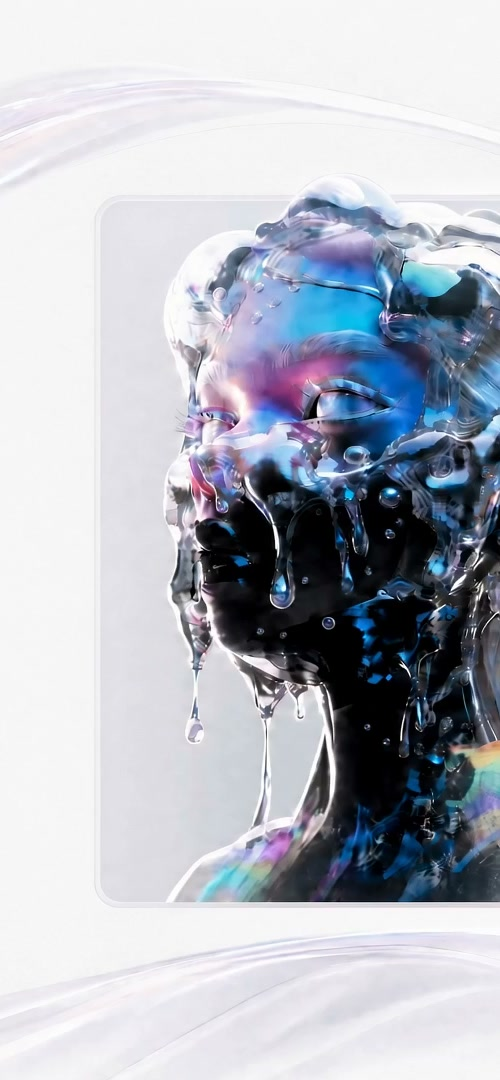
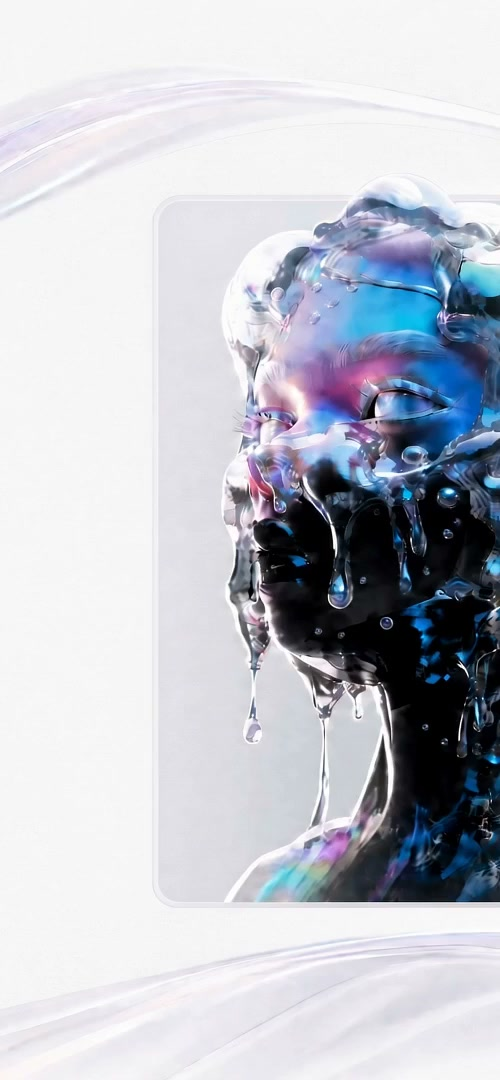
Restore original mobile hero framing

diff --git a/src/components/Hero.tsx b/src/components/Hero.tsx
@@ -243,12 +243,13 @@ export default function Hero() {
           rather than squeezing the desktop canvas down.
           Composition per handoff spec: no overlay of any kind on top of
           the video (no scrim/blur/mask/boxed clip) — the video is full-
-          bleed and object-position is tuned (66% center) so the figure
-          reads clearly in the open middle of the screen. Legibility comes
-          entirely from placement: text lives in the naturally light upper
-          zone right under the header, buttons are pinned to the bottom via
-          margin-top:auto on their wrapper, leaving the whole middle of the
-          screen free for the video. The only readability aid is the same
+          bleed and its portrait crop preserves the source's original 62%
+          framing so the figure reads clearly in the open middle of the
+          screen. Legibility comes entirely from placement: text lives in
+          the naturally light upper zone right under the header, buttons are
+          pinned to the bottom via margin-top:auto on their wrapper, leaving
+          the whole middle of the screen free for the video. The only
+          readability aid is the same
           light text-shadow glow the source itself used — see Hero.css. */}
       <div className="hero-mobile-wrap">
         <div className={`mobile-menu${menuOpen ? ' is-open' : ''}`}>

diff --git a/src/components/Hero.css b/src/components/Hero.css
@@ -62,11 +62,9 @@
 }
 .hero-video.is-active { opacity: 1; }
 .hero-mobile-video { display: none; }
-/* Mobile: full-bleed, no overlay on top of it at all — see the composition
-   comment on `.hero-main-mobile` below for why. 66% keeps the figure
-   framed in the open middle of the screen (the busiest part of the frame
-   sits right of center), clear of both the header/eyebrow above it and
-   the bottom-pinned buttons below it. */
+/* Mobile: full-bleed, no overlay on top of it at all. The portrait asset is
+   cropped directly from the master at the same framing as the original
+   62% object-position, so no additional runtime scaling is required. */
 @media (max-width: 840px) {
   .hero-video { display: none; }
   .hero-mobile-video {

diff --git a/README.md b/README.md
@@ -46,7 +46,7 @@ both re-encoded from the original masters with `ffmpeg`:
 | Asset | Before | After | How |
 |---|---|---|---|
 | `hero-background.mp4` | 8.0 MB (1920×1080, ~6.6 Mbps) | 5.8 MB (H.264 High, CRF 17, ~4.8 Mbps) | Original 24 fps and 1920×1080 frame retained; faststart |
-| `hero-mobile.mp4` | 8.0 MB full-frame master | 2.6 MB (500×1080, H.264 High, CRF 17) | Portrait crop from the master; original 24 fps, no scaling or dropped frames, faststart |
+| `hero-mobile.mp4` | 8.0 MB full-frame master | 2.0 MB (500×1080, H.264 High, CRF 17) | Portrait crop matching the source's 62% mobile framing; original 24 fps, no scaling or dropped frames, faststart |
 | `turntable.mp4` | 8.4 MB (1756×1180, ~17 Mbps) | 1.1 MB (scaled to 1280w, CRF 24, faststart) | `+` `.webm`/VP9 alt (1.1 MB) |
 | Buttons (4 glass PNGs) | 472 KB | 164 KB (WebP q90, alpha kept) | `ffmpeg` PNG→WebP |
 | Pipeline/use-case photos | — | 320 KB total (WebP) | exported directly as WebP |